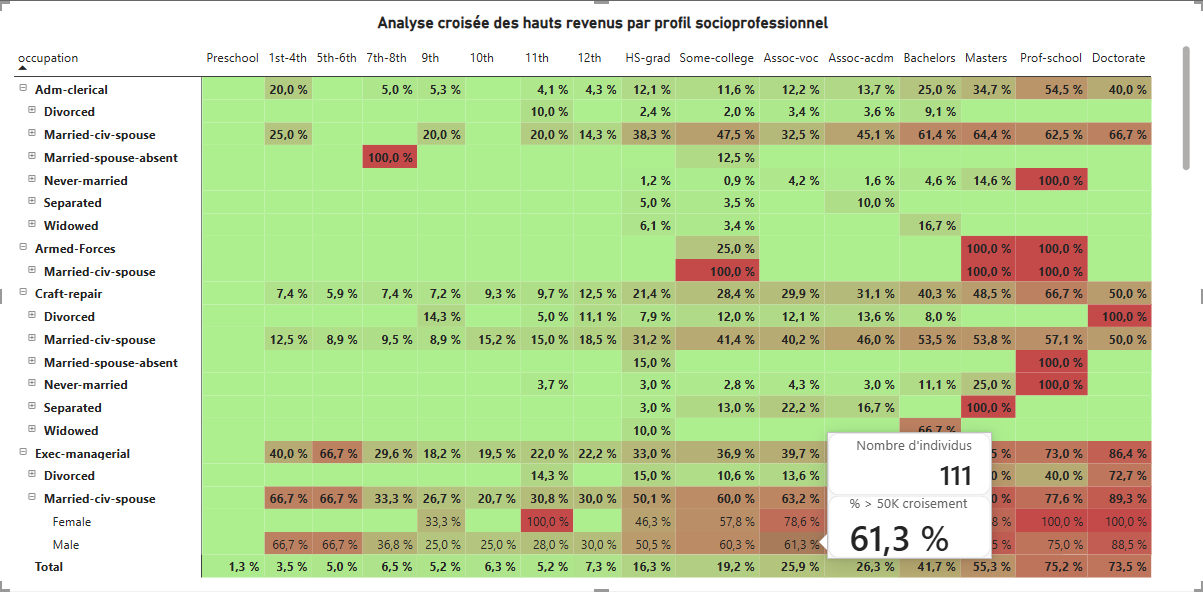
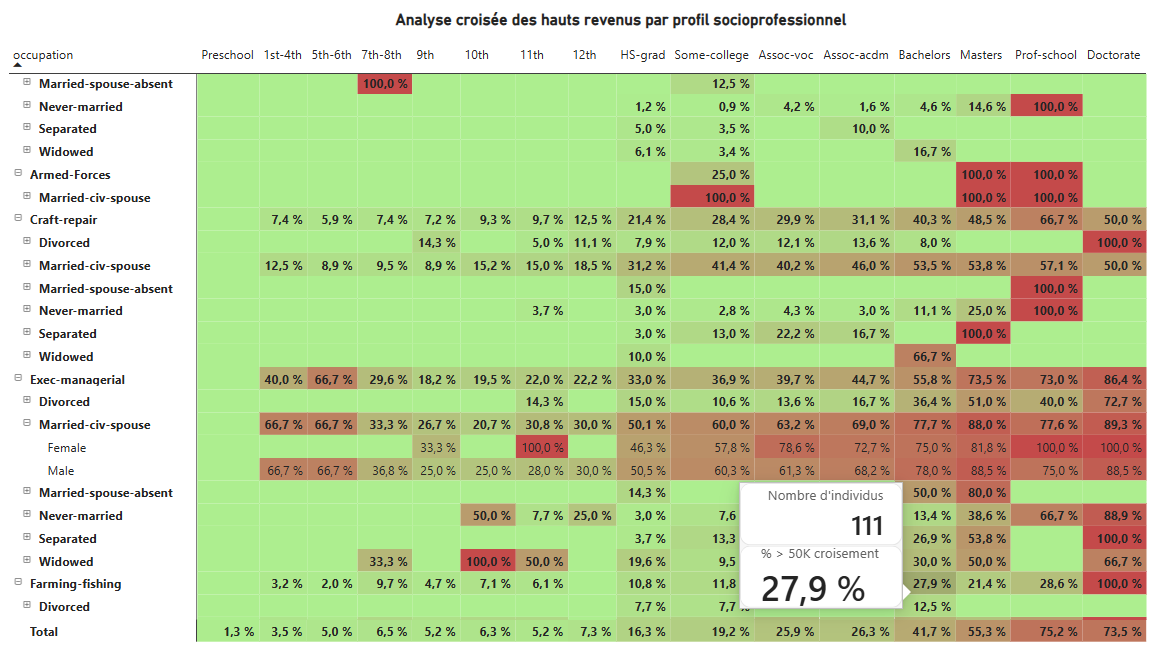
Mise en forme finale

diff --git a/README.md b/README.md
@@ -1,4 +1,5 @@
 # census-income-prediction
+
 Analyse et prédiction du revenu à partir de critères socio-démographiques sur un échantillon de population Américain.
 
 Problèmatique : 
@@ -6,20 +7,29 @@ Quels facteurs socio-professionnels sont les plus déterminants pour prédire qu
 
 
 
-### Etape 1 : Cadrage et premières données 
+# Etape 1 : Cadrage et premières données 
 
-# collecte > Les données utilisées proviennent du dataset Adult Census Income, mis à disposition via la plateforme OpenML.
+**Les données utilisées proviennent du dataset Adult Census Income, mis à disposition via la plateforme OpenML.**
+
 Pour assurer une extraction reproductible, j'ai récupéré directement le dataset dans le notebook Python à l'aide de la bibliothèque scikit-learn et de la fonction permettant de charger des datasets depuis OpenML.
 Le processus est automatisé, à chaque exécution du code, les données peuvent être récupérées directement depuis la source sans téléchargement manuel préalable.
 Les données sont ensuite chargées dans un DataFrame pandas afin de permettre leur exploration, leur diagnostic et leur nettoyage.
 
 
-# premier diagnostic 
-> pas de doublons présents
-> 9 colonnes au format category dont trois avec des valeurs manquantes ('work_class", 'occupation', 'native-country'), les colonnes restantes sont au format int64
-> Il y a des valeurs abbérantes potentielles sur les colonnes 'education_num' et 'hours_per_week'
-> La colonne 'fnlwgt' correspond au poids statistique du profil pour une population réelle, c'est une pondération numérique pas une unité, elle permet de se rendre compte de la représentativité de l'observation dans une population de référence.
-> La colonne 'education_num' provient de la variable catégorielle de la colonne 'education' sur les niveaux d'études 
+## Premier diagnostic 
+
+Il n'y a de doublons présents lignes à lignes ou sur une même colonne (subset = ['exemple']).
+
+Le dataset possède 9 colonnes au format catégorie dont trois avec des valeurs manquantes ('work_class", 'occupation', 'native-country') et des colonnes restantes sont au format int64.
+
+Il y a des valeurs abbérantes potentielles sur les colonnes 'education_num' et 'hours_per_week' à vérifier ultérieurement.
+
+
+Breakdown des colonnes : 
+
+> Colonne 'fnlwgt' correspond au poids statistique du profil pour une population réelle, c'est une pondération numérique pas une unité, elle permet de se rendre compte de la représentativité de l'observation dans une population de référence.
+
+> Colonne 'education_num' provient de la variable catégorielle de la colonne 'education' sur les niveaux d'études 
 
 |    N° | Niveau américain       | Équivalent français              |
 | ----: | ---------------------- | -------------------------------- |
@@ -35,9 +45,9 @@ Les données sont ensuite chargées dans un DataFrame pandas afin de permettre l
 |    16 | Doctorate              | Doctorat (Bac+8)                 |
 
 
-> La colonne 'capital_gain' et 'capital_loss' correspondent aux gains ou pertes réalisés suite à la vente d'actifs 
+> Colonne 'capital_gain' et 'capital_loss' correspondent aux gains ou pertes réalisés suite à la vente d'actifs 
 
-> La colonne 'work_class' identifie le type d'employeur, le secteur d'une personnne
+> Colonne 'work_class' identifie le type d'employeur, le secteur d'une personnne
 
 
 | Valeur              | Signification                                                     |
@@ -99,14 +109,16 @@ Les données sont ensuite chargées dans un DataFrame pandas afin de permettre l
 > La colonne 'class' quant à elle indique l'appartenance d'une personne au groupe avec un revenu supérieur ou non à la valeur cible de 50K dollars. Il y a 37109 personnes en dessous de ce seuil pour 11681 au-dessus. Il y a en effet un déséquilibre de classe à l'origine pour les prédictions futures qu'il faudra potenliellement prendre en compte lors de l'examen de ces dernières.
 
 
-# Nettoyage
+## Nettoyage
 Il y a effectivement trois colonnes comportant des valeur 'NaN'. Sur les colonnes 'workclass" et "occupation" notamment. En regardant de plus près ces cas (environ 3400 lignes à peu près 7%) je m'apperçois qu'il est difficile de formuler des hypothèses afin d'enrichir ces instances. De plus les supprimer pourrait par la suite entrainer un biais de séléction des algorythmes lors de la phase d'entraînement. Je décide d'ajouter une variable 'Unknown" à ces colonnes pour pallier à ça.
 
 Concernant la variable native_country, celle-ci représente environ 850 valeurs manquantes, soit une faible proportion du dataset (1,7%). De plus la répartition de classe pour ces valeurs et à peu près du même ordre de grandeur que celle du dataset entier. Je décide supprimer ces observations afin de conserver une variable géographique exploitable sans créer de catégorie artificielle.
 
 Je vérifie les correspondances entre les colonnes 'maritals_status' et 'relationships', à première vue il y a des anomalies de remplissage. La variables 'own-child' semble être un choix par défaut pour des cas particuliers non renseignés ou simplement des erreurs de saisie. Pour les status marritaux suivants : Married-civ-spouse, Married-spouse-absent, Separated, Divorced, Widowed je constate qu'il y a environ 1000 lignes 'relationship' indiquant own-child, soit un enfant à charge. Ces données sont incohérentes au vu du statut marrital, et faire des hypothèses pour un multitudes de cas différentes alors que ce lot ne repésente que 2% du dataset me semble par forcémment cohérent. Je décide ainsi de les supprimer.
 
-# Base de données 
+
+# Etape 2 La base données pour stockage et utilisation
+
 
 En définissant le MCD, j'obtiens deux tables, "Personne" et "Situation", avec une cardinalité de 1:1 de "Situation" à "Personne" et une cardinalité de 1:N dans l'autre sens (une personne pourraît avoir plusieurs situations). Lors de l'écriture du MLD je décide de garder une cardinalité de 1:1 étant donné que ce set de données ne comporte pas de variable temporelle et ne sera pas implémenté avec d'autres par la suite. 
 
@@ -117,14 +129,17 @@ Pour finir, j'ajoute les contraintes et types au MDP.
 ![MPD](docs/mpd.svg)
 
 
-# Structuration de la base relationnelle
+## Structuration de la base relationnelle
 
 Je choisis pour le projet une base MySQL pour le stockage/requêtage comme celle-ci  est un sytème de gestion de base de données répandue, open source adapté à la structuration du projet.
 Cela me permet de mettre en œuvre le modèle relationnel du projet, notamment les clés primaires, les clés étrangères et les jointures entre les tables personne et situation.
 
 Par la suite, je charge les données nettoyées dans MySQL est j'automatise le process à l’aide d’un script Python qui utilise mysql-connector-python. L’extension derrière,  SQLTools de VS Code est utilisée pour interroger la base, contrôler les données chargées et exécuter les requêtes SQL. 
 
-# Mise en place de l' APi client avec FastApi
+
+
+# Etape 3 Mise en place de l' APi client avec FastApi
+
 
 J’ai dévellopé l'API avec FastAPI afin de créer une couche intermédiaire entre les utilisateurs ou les applications clientes et la base de données MySQL. L’API est organisée autour d’endpoints correspondant aux principales opérations CRUD , GET, POST, PUT et DELETE.
 
@@ -138,7 +153,7 @@ Ainsi, l’utilisation d’une API est préférable à un accès direct à la ba
 
 
 
-# Machine learning
+# Etape 4 Analyse prédictive : Machine learning
 
 Je décide de supprimer la colonne fnlwgt commme il s'agit ici d'un poids statistique représentatif dans la population et non d'une caractérisque à proprement parler. Je supprime également 'Education' comme 'Education_num' existe déjà. La target 'class' est répartie en 0 (< 50k) à 75,71% et donc en 1 (>= 50K) à 24,29%.
 
@@ -148,9 +163,11 @@ La catégorie capitale est ici à distinguer des variables numériques pour le p
 
 >> ** EXPLICATION CHOIX DES MODÈLES **
 
+## Régression logistique
+
 Comme il s'agit ici d'un problème de classe je commence par utiliser un modèle de régression logistique afin de prédire au mieux la probabilité d'appartenir à la 'class' >= 50k annuel.
 
-Pour rappel, les métriques répondent à : 
+Les métriques d'évaluation répondent à : 
 
 **Accuracy** >> Sur toutes mes prédictions combien sont correctes
 **Precision** >> Parmis les personnes que le modèle prédit, combien gagnent vraiment + de 50K (FP)
@@ -207,6 +224,7 @@ Après avoir établi un premier modèle de classification, j'ai choisi de compar
 | Calculée à partir du modèle entraîné              | Mesurée en perturbant les données                 |
 
 
+## Le Random forest 
 
 Pour le Random Forest, le GridSearchCV retient le modèle avec les hyperparamètres suivants : max_depth=None, min_samples_leaf=2, min_samples_split=2 et n_estimators=100.
 
@@ -244,6 +262,7 @@ On retrouve donc des variables déjà importantes pour la régression logistique
 
 
 
+## Le Gradient Boosting
 
 Pour le Gradient Boosting, celui-ci obtient une accuracy de 87,5 %, une précision de 77,8 %, un recall de 67,8 % et un F1-score de 72,5 %. Par rapport au Random Forest, la précision reste quasiment identique tandis que le recall augmente de 62,5 % à 67,8 %, permettant d'identifier une proportion plus importante des individus appartenant réellement à la classe >50K. Cette amélioration se traduit par un F1-score supérieur à celui du Random Forest (72,5 % contre 69,3 %) et de la régression logistique (68,1 %).
 
@@ -275,9 +294,9 @@ Enfin, race présente une importance moyenne légèrement négative (−0,0001),
 
 
 
->> Power BI 
+# Etape 5 Analse exploratoire : Power BI
 
-# 1. Préparation des données et création des mesures dans Power BI
+## Préparation des données et création des mesures dans Power BI
 
 J'ai procédé au nettoyage des données en python, de ce fait avec  power querry je change uniquement le type et l'information de ma colonne class initialement en texte (<=50K, >50K) pour un type nombre entier (0 ou 1) pour faciliter les calculs d'agrégation futurs.
 
@@ -286,7 +305,7 @@ Pour construire mon dashboard, je suis parti de deux tables : DIM_Personne, qui 
 
 Les deux tables sont reliées par la colonne id_personne, ce qui me permet de croiser les différentes caractéristiques dans mes visualisations.
 
-# 2. Calcul des proportions de hauts revenus
+## Calcul des proportions de hauts revenus
 
 J'ai créé plusieurs mesures DAX pour calculer la proportion de personnes gagnant plus de 50K.
 L'objectif était de ne pas seulement comparer les effectifs, mais aussi de tenir compte du nombre total d'individus dans chaque catégorie.
@@ -305,7 +324,7 @@ Ces mesures m'ont notamment permis de construire :
 (Pour les comparaisons entre catégories, j'ai utilisé une mesure qui divise le nombre de personnes gagnant plus de 50K par l'effectif total de la catégorie concernée.)
 
 
-# 3. Analyse des gains en capital
+## Analyse des gains en capital
 
 Matrice retour d'investissment moyen : 
 
@@ -316,10 +335,10 @@ Je l'ai utilisée avec les moyennes de capital_gain et capital_loss pour compare
 Cela m'a permis de voir notamment que les personnes gagnant plus de 50K déclarent plus fréquemment des gains en capital, et que leurs montants moyens sont également plus élevés.
 
 
-![Matrice 1](images/matricde1.png)
+![Matrice 1](images/matrice1.png)
 
 
-# 4. Analyse multivariée
+## Analyse multivariée
 
 Après avoir étudié les variables séparément, j'ai voulu aller plus loin en analysant plusieurs caractéristiques simultanément.
 
@@ -347,7 +366,7 @@ Cela permet de vérifier rapidement sur combien de personnes repose chaque résu
 ![Matrice 2](images/matrice2.png)
 
 
-# 5. Intégration des résultats de machine learning
+## Intégration des résultats de machine learning
 
 Pour finir, j'ai ajouté dans Power BI les résultats obtenus avec mes trois modèles : régression logistique, Random Forest et Gradient Boosting.
 
@@ -363,7 +382,61 @@ L'objectif global du dashboard est donc de passer d'une analyse individuelle des
 ![Graphique-Performances](images/perf_models.png)
 
 
+Récapitulatif des mesures créées :
 
+### Les principales mesures DAX utilisées
+
+| Mesure DAX | Utilisation |
+|---|---|
+| `Nombre de revenus ≤ 50K` | Compter les individus dont le revenu annuel est inférieur ou égal à 50K. |
+| `Nombre de revenus > 50K` | Compter les individus dont le revenu annuel dépasse 50K. |
+| `% Revenus > 50K` | Calculer la proportion de hauts revenus par rapport à l'ensemble sélectionné. |
+| `% Revenus > 50K par statut matrimonial` | Comparer la proportion de hauts revenus selon la situation matrimoniale. |
+| `% Revenus > 50K par âge` | Observer l'évolution de la proportion de hauts revenus selon l'âge. |
+| `% Revenus > 50K par croisement` | Calculer la proportion de hauts revenus pour chaque combinaison de caractéristiques dans la matrice. |
+| `% Gains en capital positifs` | Calculer la proportion d'individus ayant déclaré un gain en capital supérieur à zéro. |
+| `Gain moyen en capital` / `Perte moyenne en capital` | Comparer les montants moyens des gains et des pertes en capital selon la classe de revenu. |
+| `Nombre d'individus` | Compter les individus distincts, notamment pour vérifier les effectifs derrière les pourcentages affichés dans la matrice. |
+
+
+
+
+Suite à ces différentes analyses, j'ai pu observer de nombreuses limitations du jeu de données. Celles-ci ne permettent pas d'établir de corrélation certaines sur l'appartenance d'un individu à la classe de revenu > 50K selon les caractériques qu'il présente. En revanche des associations statistiques de plusieurs variables sont ressorties, notammment 
+
+## Conclusion de l'analyse exploratoire et limites du jeu de données
+
+
+
+À travers les différentes analyses réalisées sur Power BI, j'ai pu mettre en évidence plusieurs caractéristiques associées à l'appartenance à la classe de revenu annuel supérieure à 50K.
+
+Le **niveau d'études** semble jouer un rôle important : plus celui-ci est élevé, plus la proportion de personnes gagnant plus de 50K a tendance à augmenter. La **catégorie professionnelle** présente également des différences marquées, certaines professions, notamment les métiers spécialisés et les postes de direction, étant davantage représentées parmi les hauts revenus.
+
+Le **statut matrimonial** ressort aussi comme un facteur particulièrement associé au niveau de revenu. Les personnes mariées présentent une proportion de hauts revenus nettement supérieure à celle des personnes célibataires ou divorcées.
+
+D'autres tendances ont également été observées concernant l'âge, le nombre d'heures travaillées et les gains en capital. Ces résultats montrent que plusieurs caractéristiques peuvent être associées au revenu d'un individu et qu'il est intéressant de les étudier ensemble plutôt que séparément.
+
+La matrice d'analyse croisée m'a justement permis d'approfondir ces observations. Elle montre notamment qu'à niveau d'études équivalent, la proportion de hauts revenus peut varier sensiblement selon la profession, la situation matrimoniale et le sexe.
+
+
+
+
+Ces résultats doivent toutefois être interprétés avec prudence, car le jeu de données présente plusieurs limites :
+
+- **Faible représentation des niveaux d'études les plus bas :** certaines catégories comptent peu d'individus, ce qui rend les résultats moins fiables pour ces profils.
+- **Répartition inégale des catégories professionnelles :** certaines professions sont beaucoup plus représentées que d'autres, ce qui limite la portée de certaines comparaisons.
+- **Déséquilibre entre les sexes :** les hommes représentent environ deux tiers de l'échantillon, contre un tiers de femmes.
+- **Effectifs faibles dans certains croisements :** certaines combinaisons présentent des proportions très élevées, parfois 100 %, mais peuvent reposer sur seulement quelques observations.
+- **Ancienneté des données :** le jeu de données repose sur des informations issues du recensement américain de 1994. Les résultats ne reflètent donc pas nécessairement la situation actuelle.
+- **Contexte géographique limité :** les données concernent principalement la population américaine et ne peuvent pas être directement généralisées à d'autres pays.
+- **Variables explicatives incomplètes :** certaines informations susceptibles d'être associées au revenu, comme l'expérience professionnelle, l'ancienneté, la localisation précise ou le secteur d'activité détaillé, ne sont pas disponibles.
+
+### Bilan
+
+Malgré ces limites, cette analyse exploratoire m'a permis de mieux comprendre la structure du jeu de données et d'identifier les variables les plus intéressantes à étudier.
+
+Les résultats mettent en évidence des **associations statistiques**, mais ne permettent pas d'affirmer qu'une caractéristique entraîne directement un revenu plus élevé. D'autres facteurs, présents ou absents du jeu de données, peuvent intervenir.
+
+Ces observations viennent compléter les résultats de mes modèles de machine learning, notamment les analyses d'importance des variables, et permettent de mieux interpréter les facteurs utilisés pour prédire l'appartenance à la classe de revenu supérieure à 50K.
 
 
 >> pistes d'améliirations
